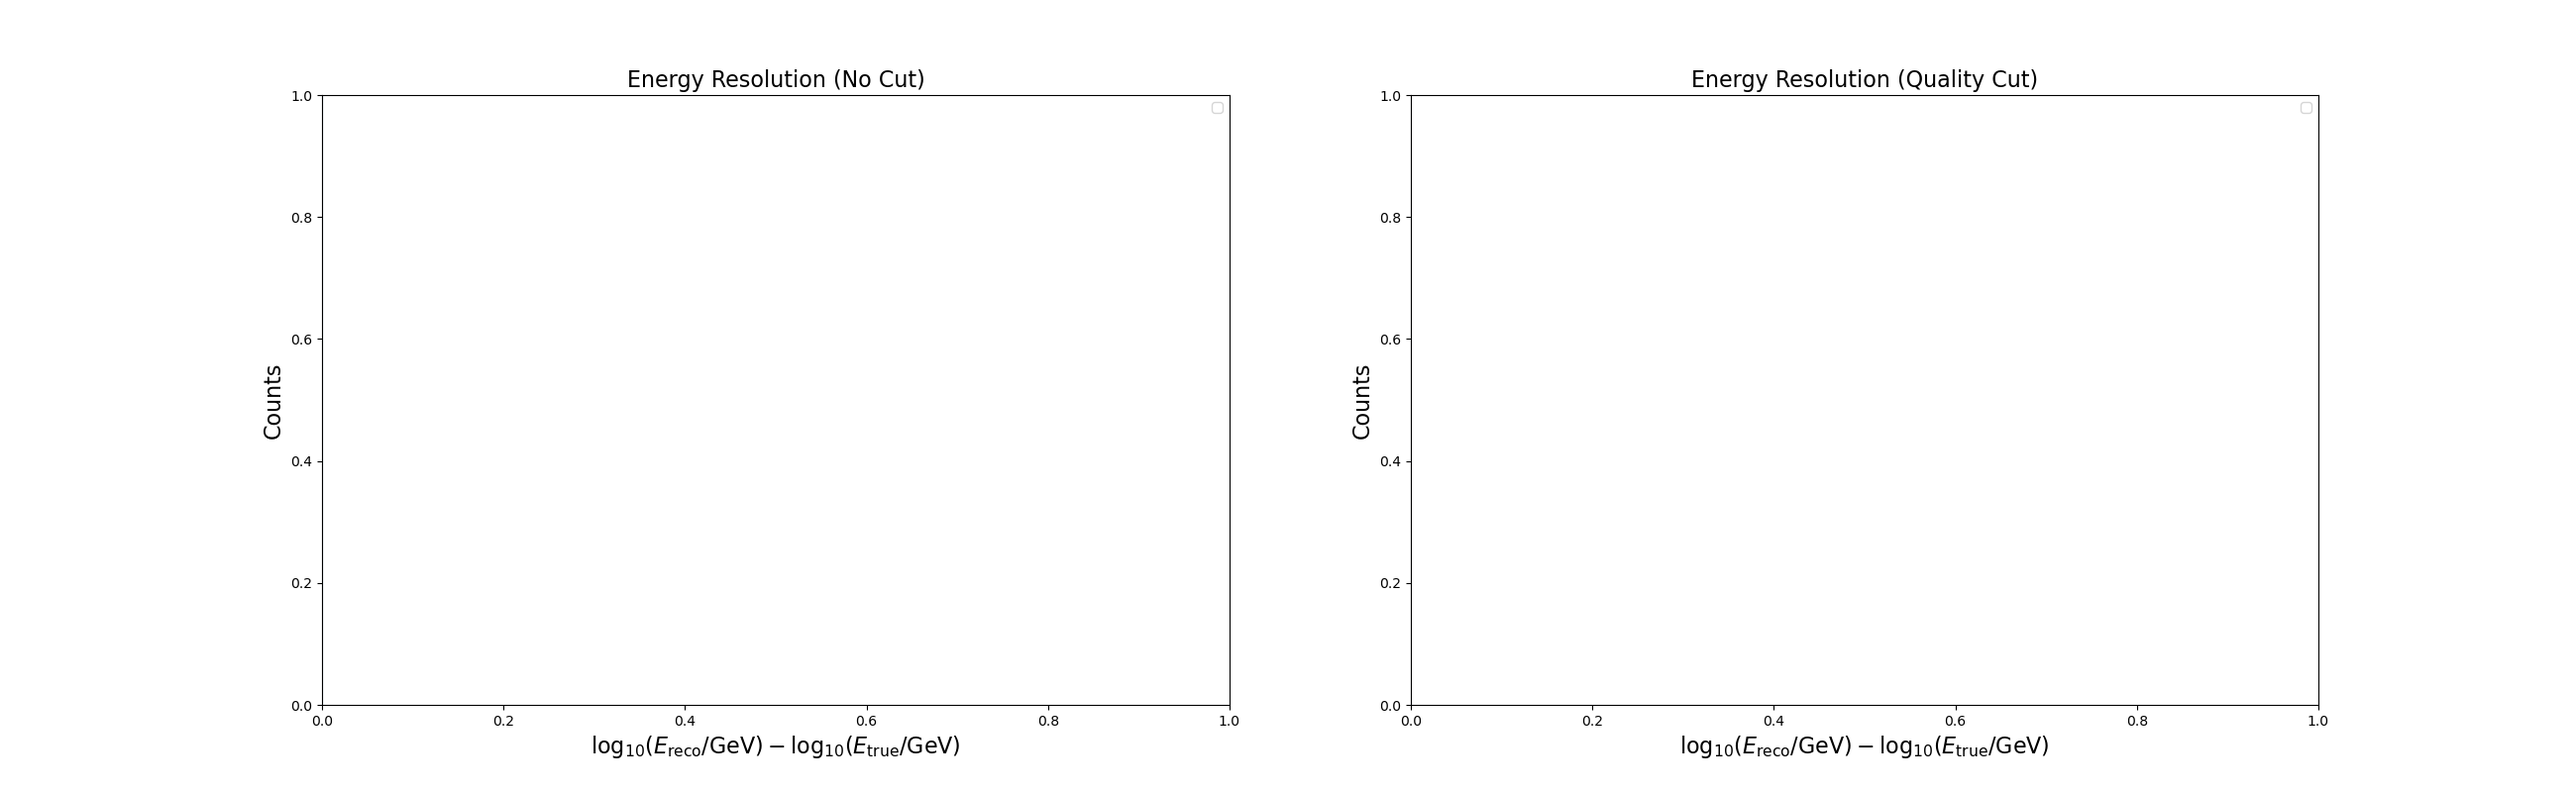
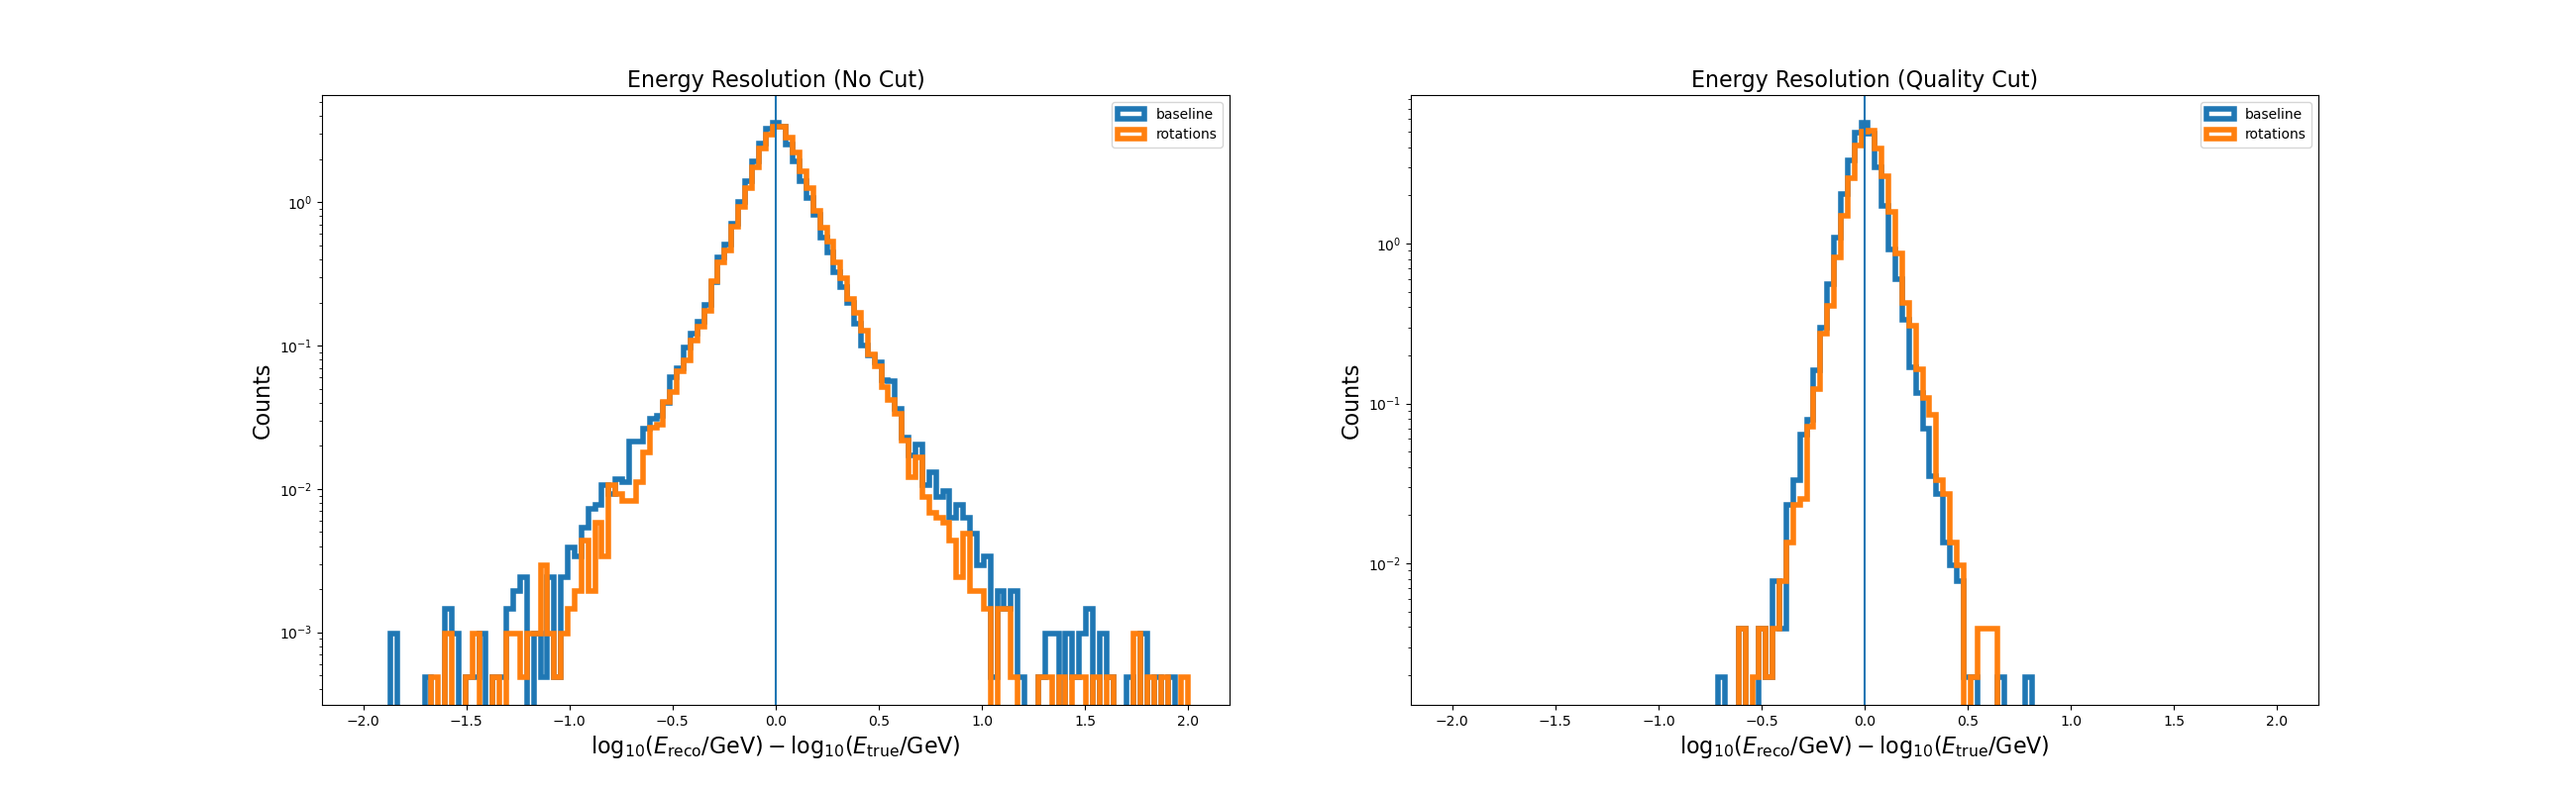
assessed the rotational against the baseline

diff --git a/assessment.py b/assessment.py
@@ -4,7 +4,14 @@ from keras.models import load_model
 import matplotlib.pyplot as plt
 import numpy as np
 import os
+import tensorflow as tf
 
+# Set GPU to train on
+os.environ['CUDA_DEVICE_ORDER']='PCI_BUS_ID'
+os.environ['CUDA_VISIBLE_DEVICES']='0'
+# Set dynamic memory allocation
+physical_devices = tf.config.list_physical_devices('GPU')
+tf.config.experimental.set_memory_growth(physical_devices[0], True)
 
 # Edit this file path to the models folder containing .h5 and .npy files for each model.
 model_prefix = 'models'
@@ -29,8 +36,8 @@ print('\nModels without parameter files:', sorted(set(model_list).difference(par
 
 
 # Keys you want to study
-key_list = []
-descriptions = []
+key_list = ['baseline0','rotations0']
+descriptions = ['baseline', 'rotations']
 
 # Automatic intake of parameters from parameter files
 labels, p = {}, {}
@@ -40,6 +47,8 @@ for key, description in zip(key_list, descriptions):
     p[key] = d.item()
     print(key, ':', p[key])
 
+p[key]['rot']=False
+print('rot: ',p[key]['rot'])
 
 # Load data, x in eight layers (q1h, q1s, q2h, q2s, t1h, t1s, t2h, t2s) and y as a dictionary with event-level parameters
 x, y = load_preprocessed(sim_prefix, comp=['p','f'])#h,o
@@ -78,9 +87,9 @@ for key in key_list:
 
     # Models should only output energy
     if p[key]['reco'] != None:
-        recoE[key] = models[key].predict([x_i[0], x_i[1]]).flatten()
+        recoE[key] = models[key].predict([x_i[0], x_i[1]], batch_size=192).flatten()
     else:
-        recoE[key] = models[key].predict(x_i).flatten()
+        recoE[key] = models[key].predict(x_i, batch_size=192).flatten()
 
     print()
 
@@ -104,7 +113,7 @@ for i, cut_name in enumerate(cut_names):
     ax = axs[i]
     for j, key in enumerate(key_list):
         cut, energy = get_cut(cut_name, y, p[key]['reco'], recoE[key], data_cut[key])
-        ax.hist((recoE[key][cut] - energy), label=labels[key], **hist_args, stacked=True, density=True)
+        ax.hist((recoE[key][cut] - energy), label=labels[key], **hist_args, stacked=True)
     ax.set_title('Energy Resolution (%s)' % cut_name, **label_params)
     ax.set_xlabel(r'$\log_{10}(E_{\mathrm{reco}}/\mathrm{GeV}) - \log_{10}(E_{\mathrm{true}}/\mathrm{GeV})$', **label_params)
     ax.set_ylabel('Counts', **label_params)
@@ -122,7 +131,7 @@ for i, cut_name in enumerate(cut_names):
     ax = axs[i]
     for j, key in enumerate(key_list):
         cut, energy = get_cut(cut_name, y, p[key]['reco'], recoE[key], data_cut[key])
-        ax.hist((recoE[key][cut] - energy), label=labels[key], **hist_args, stacked=True, density=True)
+        ax.hist((recoE[key][cut] - energy), label=labels[key], **hist_args, stacked=True)
     ax.set_title('Energy Resolution (%s)' % cut_name, **label_params)
     ax.set_xlabel(r'$\log_{10}(E_{\mathrm{reco}}/\mathrm{GeV}) - \log_{10}(E_{\mathrm{true}}/\mathrm{GeV})$', **label_params)
     ax.set_ylabel('Counts', **label_params)
